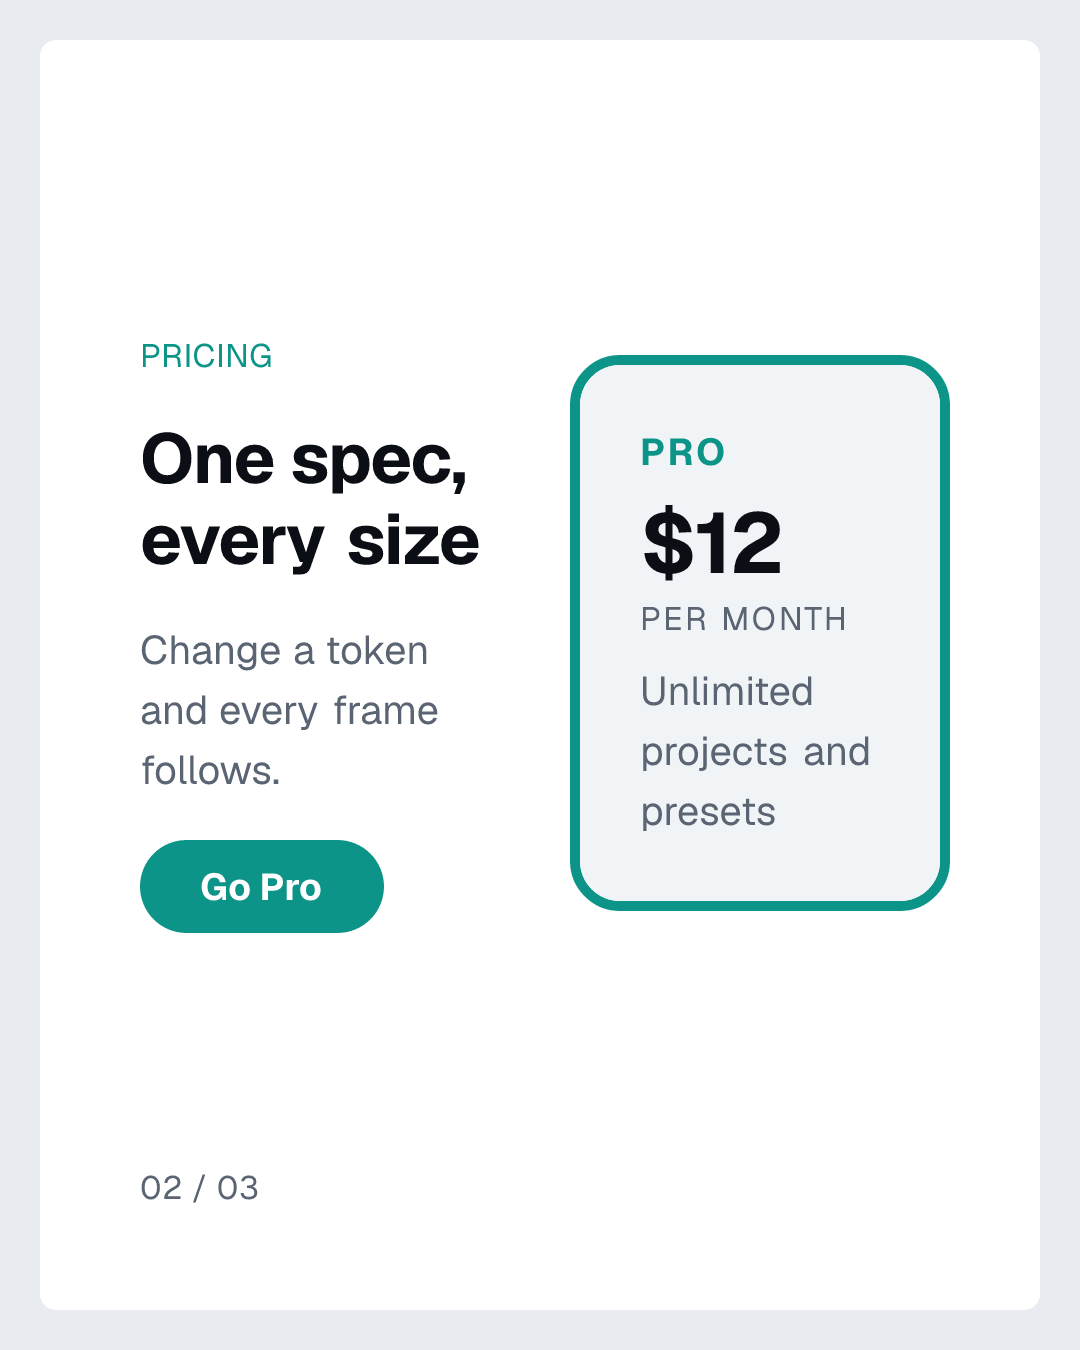
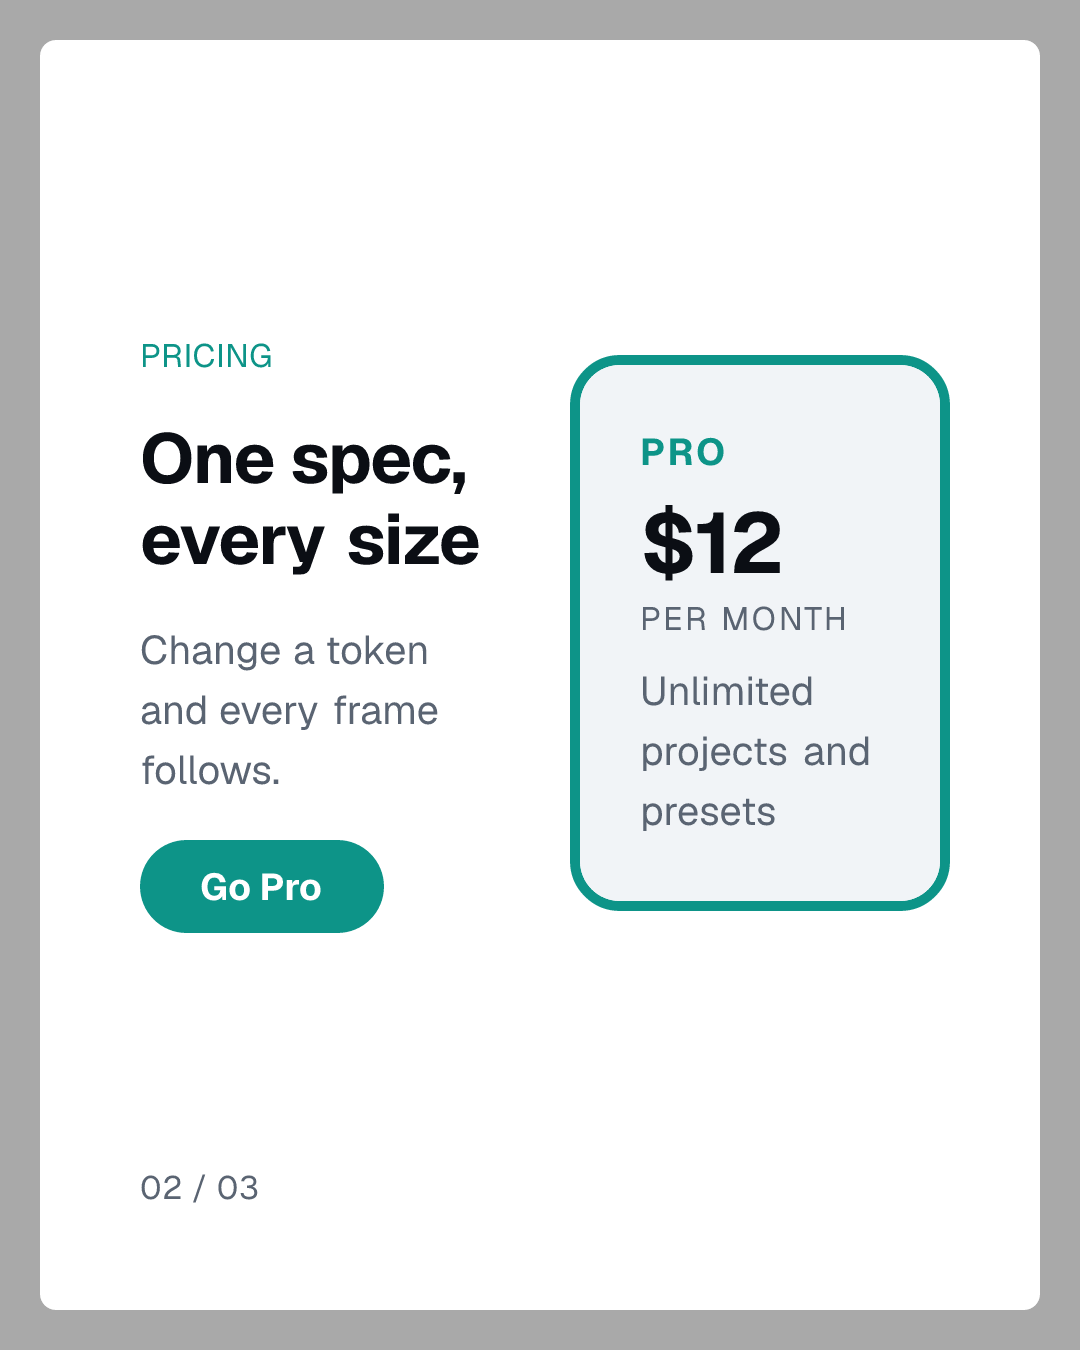
feat(example): set the README stage to a neutral grey field

Changed region(s): [[0.0, 0.0, 1.0, 1.0]]

diff --git a/examples/source-app/mediakit.config.ts b/examples/source-app/mediakit.config.ts
@@ -335,14 +335,14 @@ export default defineConfig({
      * render the device as a phone-shaped hole with only its shadow to separate it. Store
      * frames stand the device on `surface` so the bezel still separates on both themes.
      *
-     * `field` is the ground the README pair sits on. A neutral one step darker than the light
-     * listing's `surface`, so the light card's edge still separates against it; pure white
-     * would dissolve that edge and leave only the corner radius.
+     * `field` is the ground both README images sit on. A pure neutral grey, no tint: far
+     * enough from white that the light card's edge separates, far enough from black that
+     * the dark card's does too, and equal RGB so it reads as a stage rather than a colour.
      */
     color: {
       accent: '#0D9488',
       bezel: '#0B0E14',
-      field: '#E8ECF1',
+      field: '#A9A9A9',
     },
   },
   blocks: { PricingCard: card },
